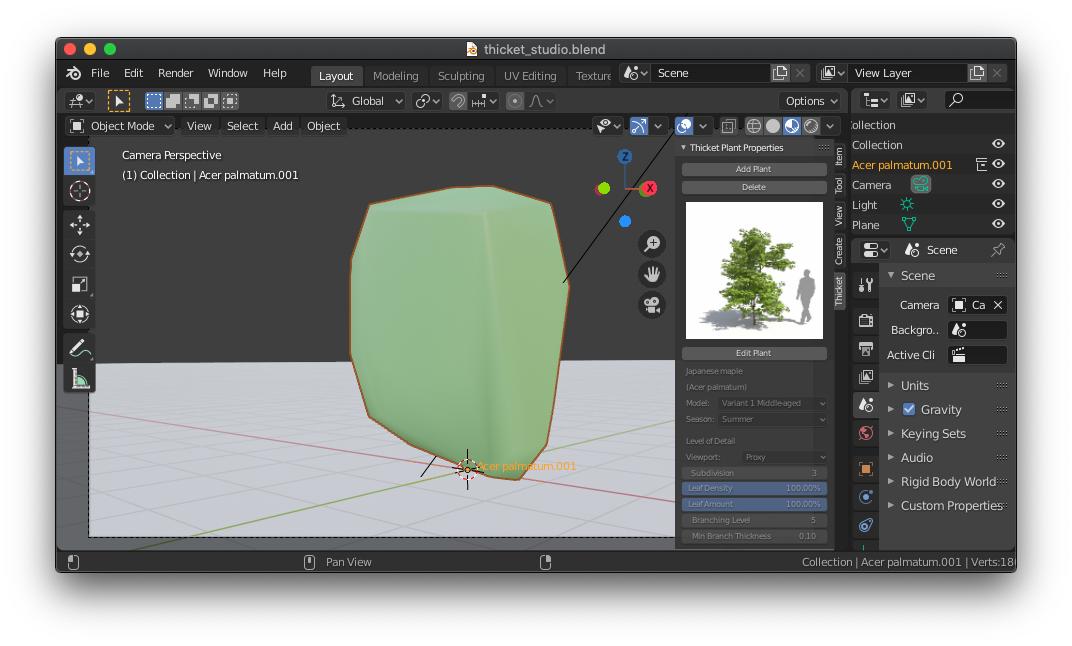
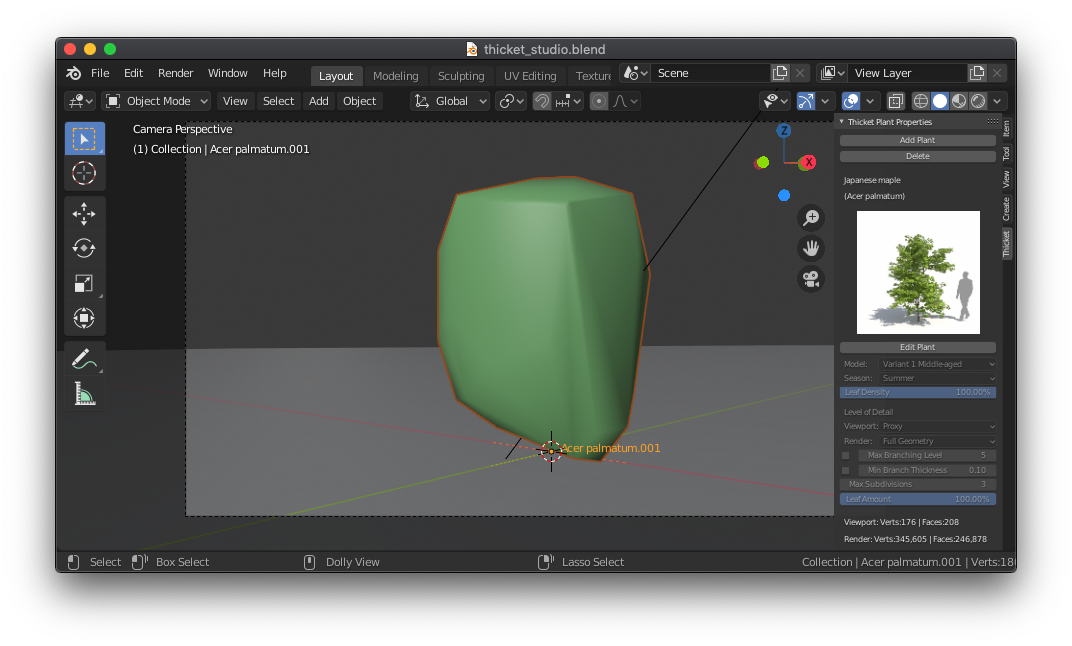
Update README for updated Plant Properties panel
Update the screenshots, add a close up of the add panel, and update the
descriptions to match the updated UI.

diff --git a/README.md b/README.md
@@ -4,51 +4,44 @@ Thicket is a [Blender](http://www.blender.org) Add-on to import [Laubwerk Plants
 
 Thicket is an open source community developed project using the Laubwerk Python SDK. While not affiliated with or officially supported by Laubwerk GmbH, this project would not be possible without Laubwerk's efforts to answer questions and address issues during the development of Thicket.
 
-Using Laubwerk's level of detail controls, Thicket keeps the Blender viewport responsive and renderings photo-realistic, like this shot of a Japanese Maple (Acer Palmatum).
+Using Laubwerk's level of detail controls, Thicket keeps the Blender viewport responsive and renderings photo-realistic. Cycles render of a Japanese Maple (Acer Palmatum):
 
 ![doc/acerp-cycles.png](doc/acerp-cycles.png)
 
 ## Features
-Thicket generates separate viewport and render models, supporting various levels of detail for each. The viewport can display a low poly proxy (convex hull) or a partial geometry model in any of Blender's viewport modes. The rendered model geometry is generated using various level of detail controls.
+Thicket provides a visual plant selection gallery and options to configure the plant model variant, age, and leaf density. It generates separate viewport and render models, supporting various levels of detail for each. The viewport can display a low poly proxy (convex hull), partial or full geometry models in any of Blender's viewport modes. The rendered model geometry is generated using various level of detail controls.
 
 * Sidebar "N Panel" UI
-  * Visual plant selection (gallery)
+  * Visual plant selection gallery
   * Update existing plants
   * Update all identical instances at once
   * Make instances unique
   * Smart delete to manage scene size
+* Plant model options
 * Separate viewport and render models
-* Collection instancing
+* Render level of detail controls
 * Material nodes
-* Viewport model level of detail
-  * Proxy (Convex Hull)
-  * Partial geometry
-* Render model level of detail
-  * Subdivision
-  * Leaf density
-  * Leaf amount
-  * Branching level
-  * Branch thickness
+* Collection instancing
 
 ![doc/thicket-banner-2048.png](doc/thicket-banner-2048.png)
 
 ## Install
 * Download and install the prerequisites
   * [Blender](http://www.blender.org/) 2.80 or later. The plugin is known to run with [Blender 2.82](http://www.blender.org/features/past-releases/2-82/).
-  * Laubwerk Python SDK 1.0.32 or later, provided by all Laubwerk Plant Kits, including the [Plants Kit Freebie](http://www.laubwerk.com/store/plants-kit-freebie).
+  * Laubwerk Python SDK 1.0.33 or later, provided by all Laubwerk Plant Kits, including the [Plants Kit Freebie](http://www.laubwerk.com/store/plants-kit-freebie).
     * Choose the "Custom" installation method and ensure the "Python Extension" component is checked.
 * Installation options
-  * Latest from GitHub
+  * From a release Zip file (most users)
+    * Download the latest release zip file from the [Releases Tab](/../../releases/)
+    * Start Blender
+    * Choose `Edit -> Preferences -> Add-ons -> Install`
+    * Select the zip file and click `Install Add-on`
+  * Latest from GitHub (for testers and developers)
     * Exit Blender
     * Clone the `thicket` git repository into the Blender `addons` folder:
       * Mac: `~/Library/Blender/2.80/scripts/addons/thicket`
       * Windows: `%AppData%\Blender Foundation\Blender\2.80\scripts\addons\thicket`
     * Start Blender
-  * From a release Zip file
-    * Download the latest release zip file from the [Releases Tab](/../../releases/)
-    * Start Blender
-    * Choose `Edit -> Preferences -> Add-ons -> Install`
-    * Select the zip file and click `Install Add-on`
 * Configure Thicket
   * Choose `Edit -> Preferences...`
   * Select the `Add-ons` tab and search for `thicket`
@@ -74,29 +67,36 @@ To add a plant, click `Add Plant` and select from the gallery presented. You can
 
 ![doc/thicket-panel-select.png](doc/thicket-panel-select.png)
 
-Once selected, the panel presents the plant model, season, and level of detail options.
+Once selected, the panel presents the plant model, season, leaf density, and level of detail options.
 
 ![doc/thicket-panel-add.png](doc/thicket-panel-add.png)
 
-The image preview will update when you change the `Model` variant and age. You can configure the season and level of detail properties:
+<image align="right" src="doc/thicket-panel-add-zoom.png">
 
-Plant Model
-* Model: Select variant and age. There are typically 3 variants of each plant,
-  as well as 3 ages for each variant.
-* Season: Affect plant's foliage, color, and flowers.
+The image preview will update when you change the `Model` variant and age. You can also configure the season, leaf sensity, and level of detail properties:
 
-Level of Detail Settings
-* Viewport: Control the model displayed in the viewport
-  * Proxy: low poly proxy (convex hull)
-  * Partial Geometry: low detail version of the render model
-* Subdivision: Control the number of edges in a branch cross-section (0 is square)
-* Leaf Density: Control how full the foliage appears
-* Leaf Amount: Control the number of leaves used to reach the specified density
-  (fewer leaves results in larger individual leaves)
-* Maximum Level: Limit the number of branching levels off the trunk
-* Minimum Thickness: Eliminate branches smaller than this value
+### Plant Model
+**Model:** Select variant and age<br>
+**Season:** Affect foliage, color, and flowers<br>
+**Leaf Density:** Control how full the foliage appears<br>
 
-You can return the gallery to select a different plant with `Change Plant`, add the current plant with `Add`, and cancel the operation with `Cancel`.
+### Level of Detail
+**Viewport:** Control the model displayed in the viewport
+* Proxy: low poly proxy (convex hull)
+* Partial Geometry: low detail version of the render model
+* Full Geometry: high detail render model
+
+**Render:** Control the rendered model
+* Proxy: low poly proxy (convex hull, forces viewport to Proxy)
+* Full Geometry: high detail render model
+
+**Max Branching Level:** Limit the number of branching levels off the trunk (uncheck to use the plant default)<br>
+**Min Branch Thickness:** Eliminate branches smaller than this value (uncheck to use the plant default)<br>
+**Max Subdivisions:** Control the max number of edges in a branch cross-section (1 is square)<br>
+**Leaf Amount:** Control the number of leaves used to reach the specified leaf density (fewer leaves result in larger individual leaves)<br>
+
+You can return to the gallery to select a different plant with `Change Plant`, add the current plant with `Add`, or cancel the operation with `Cancel`.
+<br clear="right"><br>
 
 Adding Acer Palmatum with Viewport `Proxy` selected, loads the convex hull into the viewport:
 
